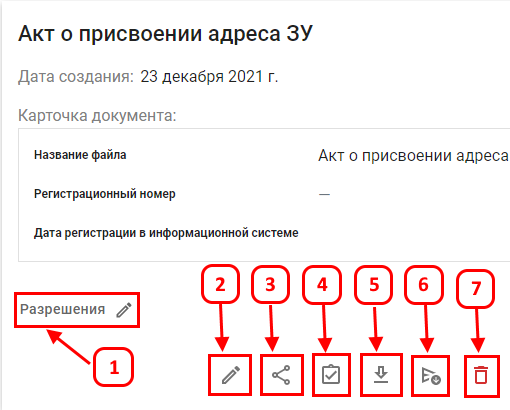
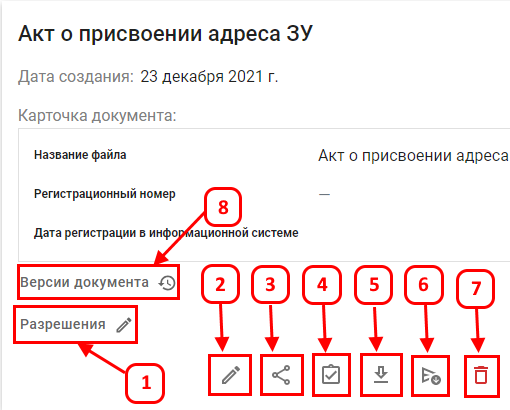
Merged PR 66: feat(ui: doc verdion): doc version fixes
Related work items: #701

Changed region(s): [[0.0, 0.5854, 0.3529, 0.9951], [0.3529, 0.439, 0.5, 0.5854]]

diff --git a/portal-ui/src/app/components/Files/Item/Files-Item.tsx b/portal-ui/src/app/components/Files/Item/Files-Item.tsx
@@ -96,7 +96,9 @@ export class FilesItem extends Component<FilesItemProps> {
           <LookupActions>
             {isPreviewAllowed(item) && <FilesPreview item={item} onPreview={onPreview} />}
             {showPlaceAction && (isGmlFile(item) || isDxfFile(item)) && <FilesPlacement fileInfo={item} />}
-            {!!this.connections?.length && <FilesConnections file={item} connections={this.connections} />}
+            {showPlaceAction && !!this.connections?.length && (
+              <FilesConnections file={item} connections={this.connections} />
+            )}
             {editable && <LookupDelete item={item} onDelete={this.deleteButtonClickHandler} />}
           </LookupActions>
         </LookupItem>

diff --git a/portal-ui/src/assets/help/5dataManagement/4documentCard/04documentCard.html b/portal-ui/src/assets/help/5dataManagement/4documentCard/04documentCard.html
@@ -12,5 +12,6 @@
     <li><b>Скачать</b> — экспорт документа.</li>
     <li><b>Отправить в СЭД "Диалог"</b> — отправка документа в систему электронного документооборота.</li>
     <li><b>Удалить</b> — удаление документа.</li>
+    <li><b>Версии документа</b> - окно со списком всех сохраненных версий документа.</li>
   </ol>
   <center><img src="04documentCard_1.png" alt=""></center>

diff --git a/portal-ui/src/app/components/LibraryDocumentVersionsActions/Restore/LibraryDocumentVersionsActions-Restore.tsx b/portal-ui/src/app/components/LibraryDocumentVersionsActions/Restore/LibraryDocumentVersionsActions-Restore.tsx
@@ -89,6 +89,15 @@ export class LibraryDocumentVersionsActionsRestore extends Component<LibraryDocu
     delete document.libraryTableName;
     delete document.schemaId;
 
+    if (!Object.keys(document).length) {
+      Toast.info('Документ уже соответствует выбранной версии');
+
+      this.setLoading(false);
+      this.closeDialog();
+
+      return;
+    }
+
     try {
       await updateLibraryRecord(this.props.document, document);
     } catch (error) {

diff --git a/portal-ui/src/app/components/Explorer/Widgets/_type/Explorer-Widgets_type_documentVersion.tsx b/portal-ui/src/app/components/Explorer/Widgets/_type/Explorer-Widgets_type_documentVersion.tsx
@@ -47,6 +47,7 @@ class ExplorerWidgetsTypeDocumentVersion extends Component<ExplorerWidgetsProps>
               schema={this.schema}
               data={(item.payload as DocumentVersionExtended).content}
               title='Карточка документа'
+              formRole='viewVersion'
             />
           </ExplorerInfoDescItem>
         )}

diff --git a/portal-ui/src/app/components/Form/Form.async.tsx b/portal-ui/src/app/components/Form/Form.async.tsx
@@ -27,7 +27,7 @@ import '!style-loader!css-loader!sass-loader!./Form.scss';
 
 const cnForm = cn('Form');
 
-export type FormRole = 'viewDocument';
+export type FormRole = 'viewDocument' | 'viewVersion';
 
 export interface FormProps<T>
   extends Omit<React.DetailedHTMLProps<React.FormHTMLAttributes<HTMLFormElement>, HTMLFormElement>, 'ref'> {
